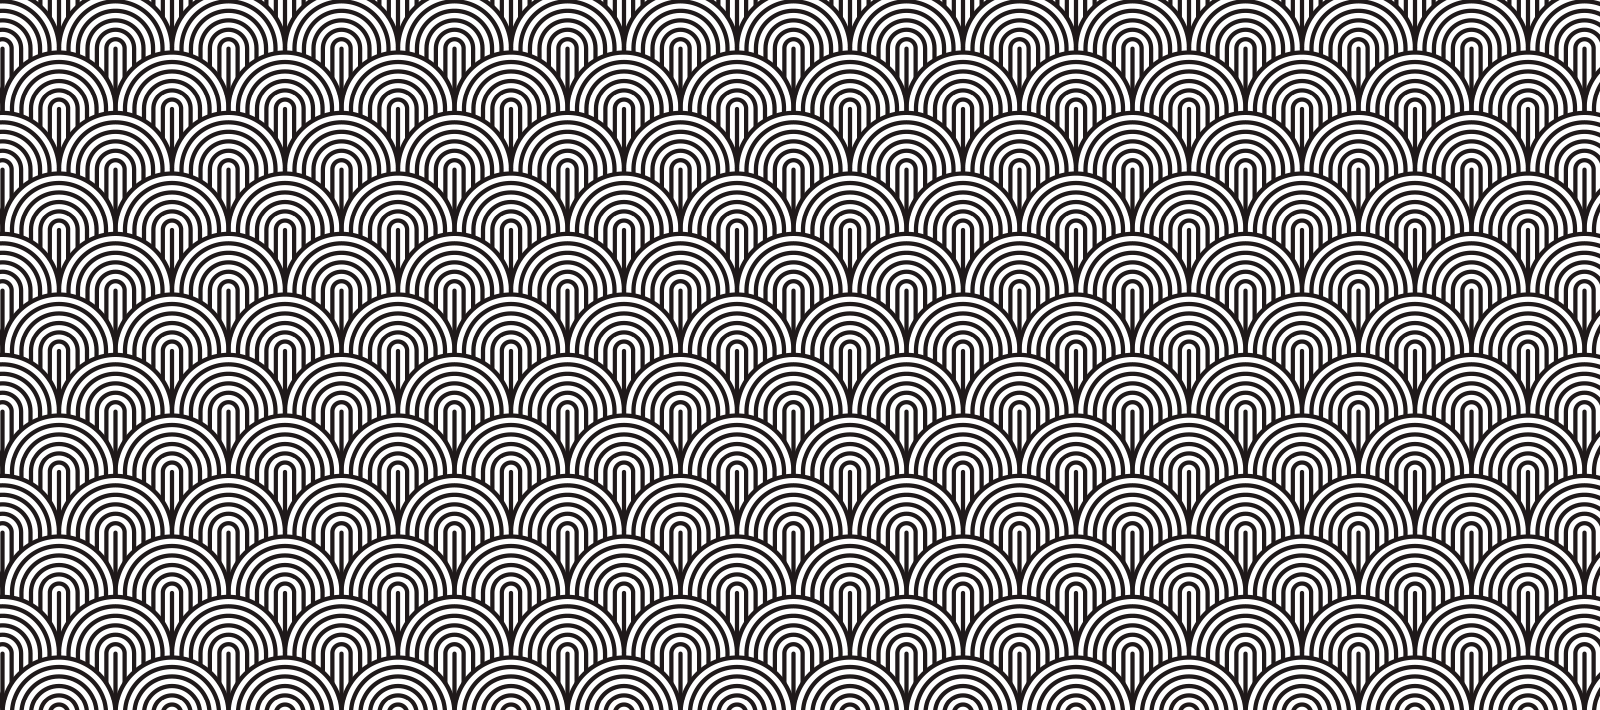
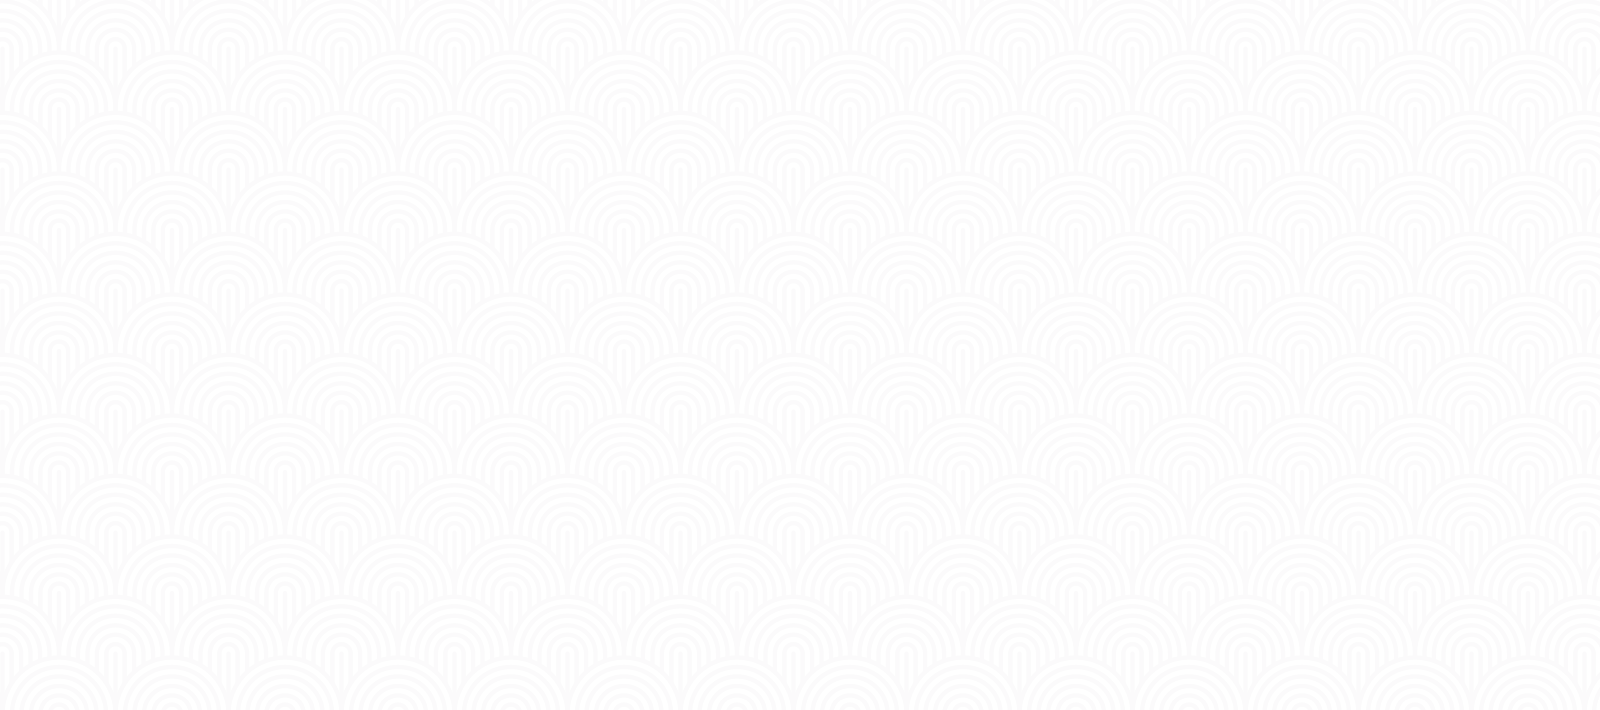
created section about

diff --git a/style.css b/style.css
@@ -89,7 +89,7 @@ body {
     background: url(img/Bg.png) no-repeat;
     background-size: cover;
     min-width: 100%;
-    height: 700px;
+    height: 748px;
     margin: 0 auto;
 }
 
@@ -166,6 +166,7 @@ h1 {
     display: flex;
     flex-direction: column;
     align-items: center;
+    height: 654px;
 }
 
 .button12 {
@@ -196,7 +197,7 @@ h1 {
     font-family: "Lato", sans-serif;
     border: 1px solid white;
     font-size: 17px;
-    letter-spacing: 0.37px;
+    letter-spacing: 0.4px;
     text-transform: uppercase;
 }
 
@@ -210,4 +211,49 @@ h1 {
     cursor: pointer;
     background-color: rgba(0, 0, 1, 0.6);
     border: 1px solid rgba(0, 0, 1, 0.6);
+}
+.wrapper-back {
+    background: url(img/pattern1.png) no-repeat;
+display: flex;
+    justify-content: center;
+    padding-top: 74px;
+    padding-left: 20px;
+}
+.wrapper-about {
+    display: flex;
+        flex-direction: column;
+    max-width: 24%;
+    align-items: center;
+
+
+
+
+}
+h2 {
+    font-family: "YesevaOne", sans-serif;
+    font-size: 34px;
+    color: #cc9900;
+    font-weight: 100;
+    letter-spacing: 1px;
+
+}
+
+.wrapper-about p {
+    font-family: "Lato", sans-serif;
+    text-align: center;
+    line-height: 24px;
+    padding-top: 6px;
+}
+.main-decor {
+    margin-top: -14px;
+    margin-left: -3px;
+
+}
+.article-decor {
+    margin-top: 16px;
+    margin-left: 63px;
+}
+.smart-obj {
+    margin-top: -12px;
+    margin-left: -7px;
 }

diff --git a/index.html b/index.html
@@ -30,12 +30,28 @@
 </header>
 <section class="buttom-place">
        <h1>the right ingredients<br>for the right food</h1>
-    <img class="smart-obj" src="img/Decoration.png"/>
+    <img class="smart-obj" src="img/Decoration.png" alt="">
     <div class="button12">
     <button class="butt1">Book a table</button>
-    <button class="butt2">See the menue</button>
+    <button class="butt2">See the menu</button>
 </div>
 </section>
+    <section class="wrapper-back">
+        <article class="wrapper-about">
+            <h2>Just the right food</h2>
+            <img class="smart-obj2" src="img/divider1.png" alt="">
+            <p>If you’ve been to one of our restaurants,
+                you’ve seen – and tasted – what keeps our customers
+                coming back for more. Perfect materials
+                and freshly baked food, delicious Lambda cakes,
+                muffins, and gourmet coffees make us hard to resist!
+                Stop in today and check us out!</p>
+            <figure>
+                <img class="article-decor" src="img/cook.png" alt="">
+            </figure>
+        </article>
+        <img class="main-decor" src="img/dish.png" alt="">
+    </section>
 </div>
 </body>
 </html>
